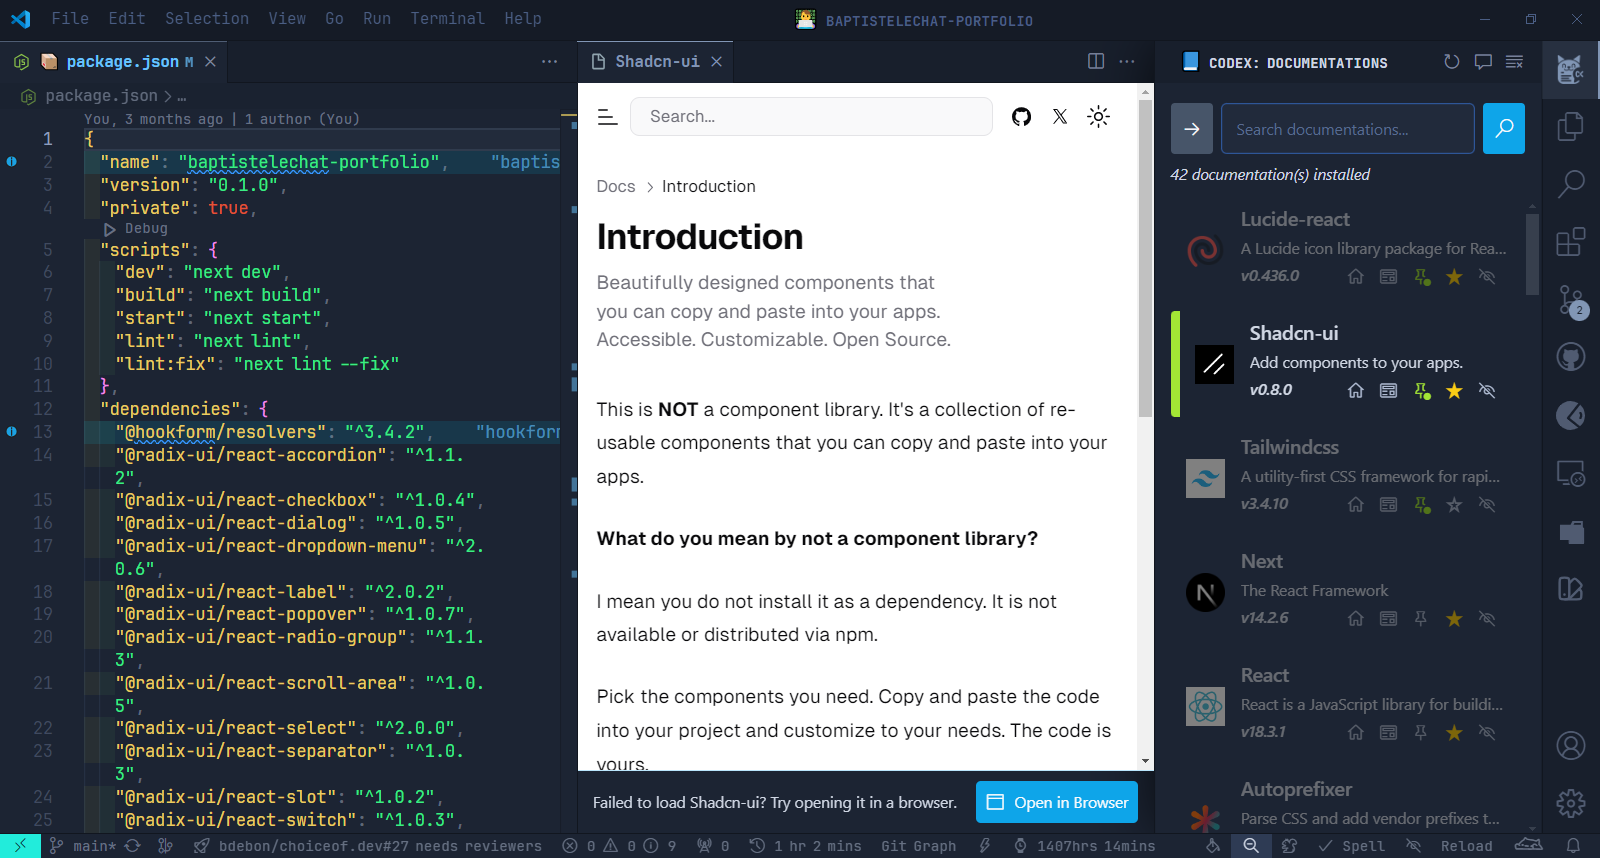
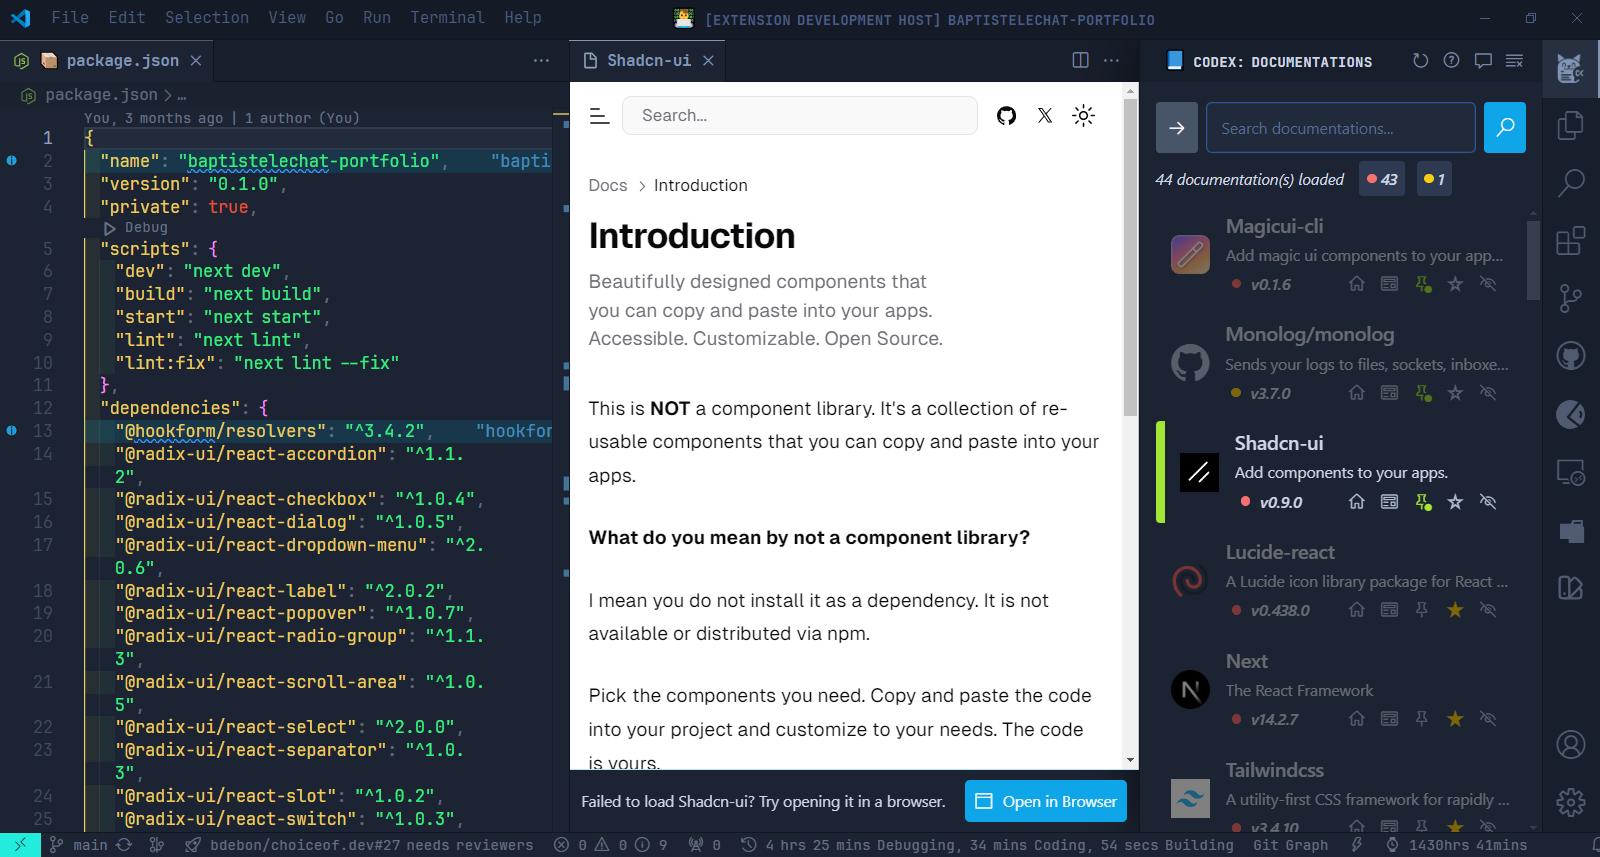
🐛🎨 (Hide Registries + Screenshots) - Hide Registries array is not reset properly + Update screenshots in README.md file

diff --git a/src/app/Sidebar/sidebar.ts b/src/app/Sidebar/sidebar.ts
@@ -220,7 +220,8 @@ const setupEventListeners = () => {
     } else {
       actionItem.classList.remove(
         "hover:cursor-pointer",
-        "hover:brightness-90"
+        "hover:brightness-90",
+        "brightness-50"
       );
     }
   });
@@ -261,6 +262,8 @@ const setupEventListeners = () => {
         documentationList.style.setProperty("display", "none");
         loader.style.setProperty("display", "flex");
 
+        hideRegistries = [];
+
         vscode.postMessage({
           type: "searchDocumentation",
           searchValue,
@@ -274,6 +277,8 @@ const setupEventListeners = () => {
       subtitle.style.setProperty("display", "none");
       documentationList.style.setProperty("display", "none");
       loader.style.setProperty("display", "flex");
+
+      hideRegistries = [];
 
       vscode.postMessage({
         type: "searchDocumentation",

diff --git a/README.md b/README.md
@@ -29,6 +29,8 @@ CodeX intelligently detects the registry based on your query and directs you to 
 <u>Use keywords :</u>
 You can filter results according to specific registries (npm or packagist for the moment).
 
+![Sidebar](https://raw.githubusercontent.com/baptistelechat/codeX/main/src/lib/assets/images/captures/searchbar.png)
+
 ### 🧙♂ Keywords
 
 You can add keywords to your search if you want to search in a particular registry :
